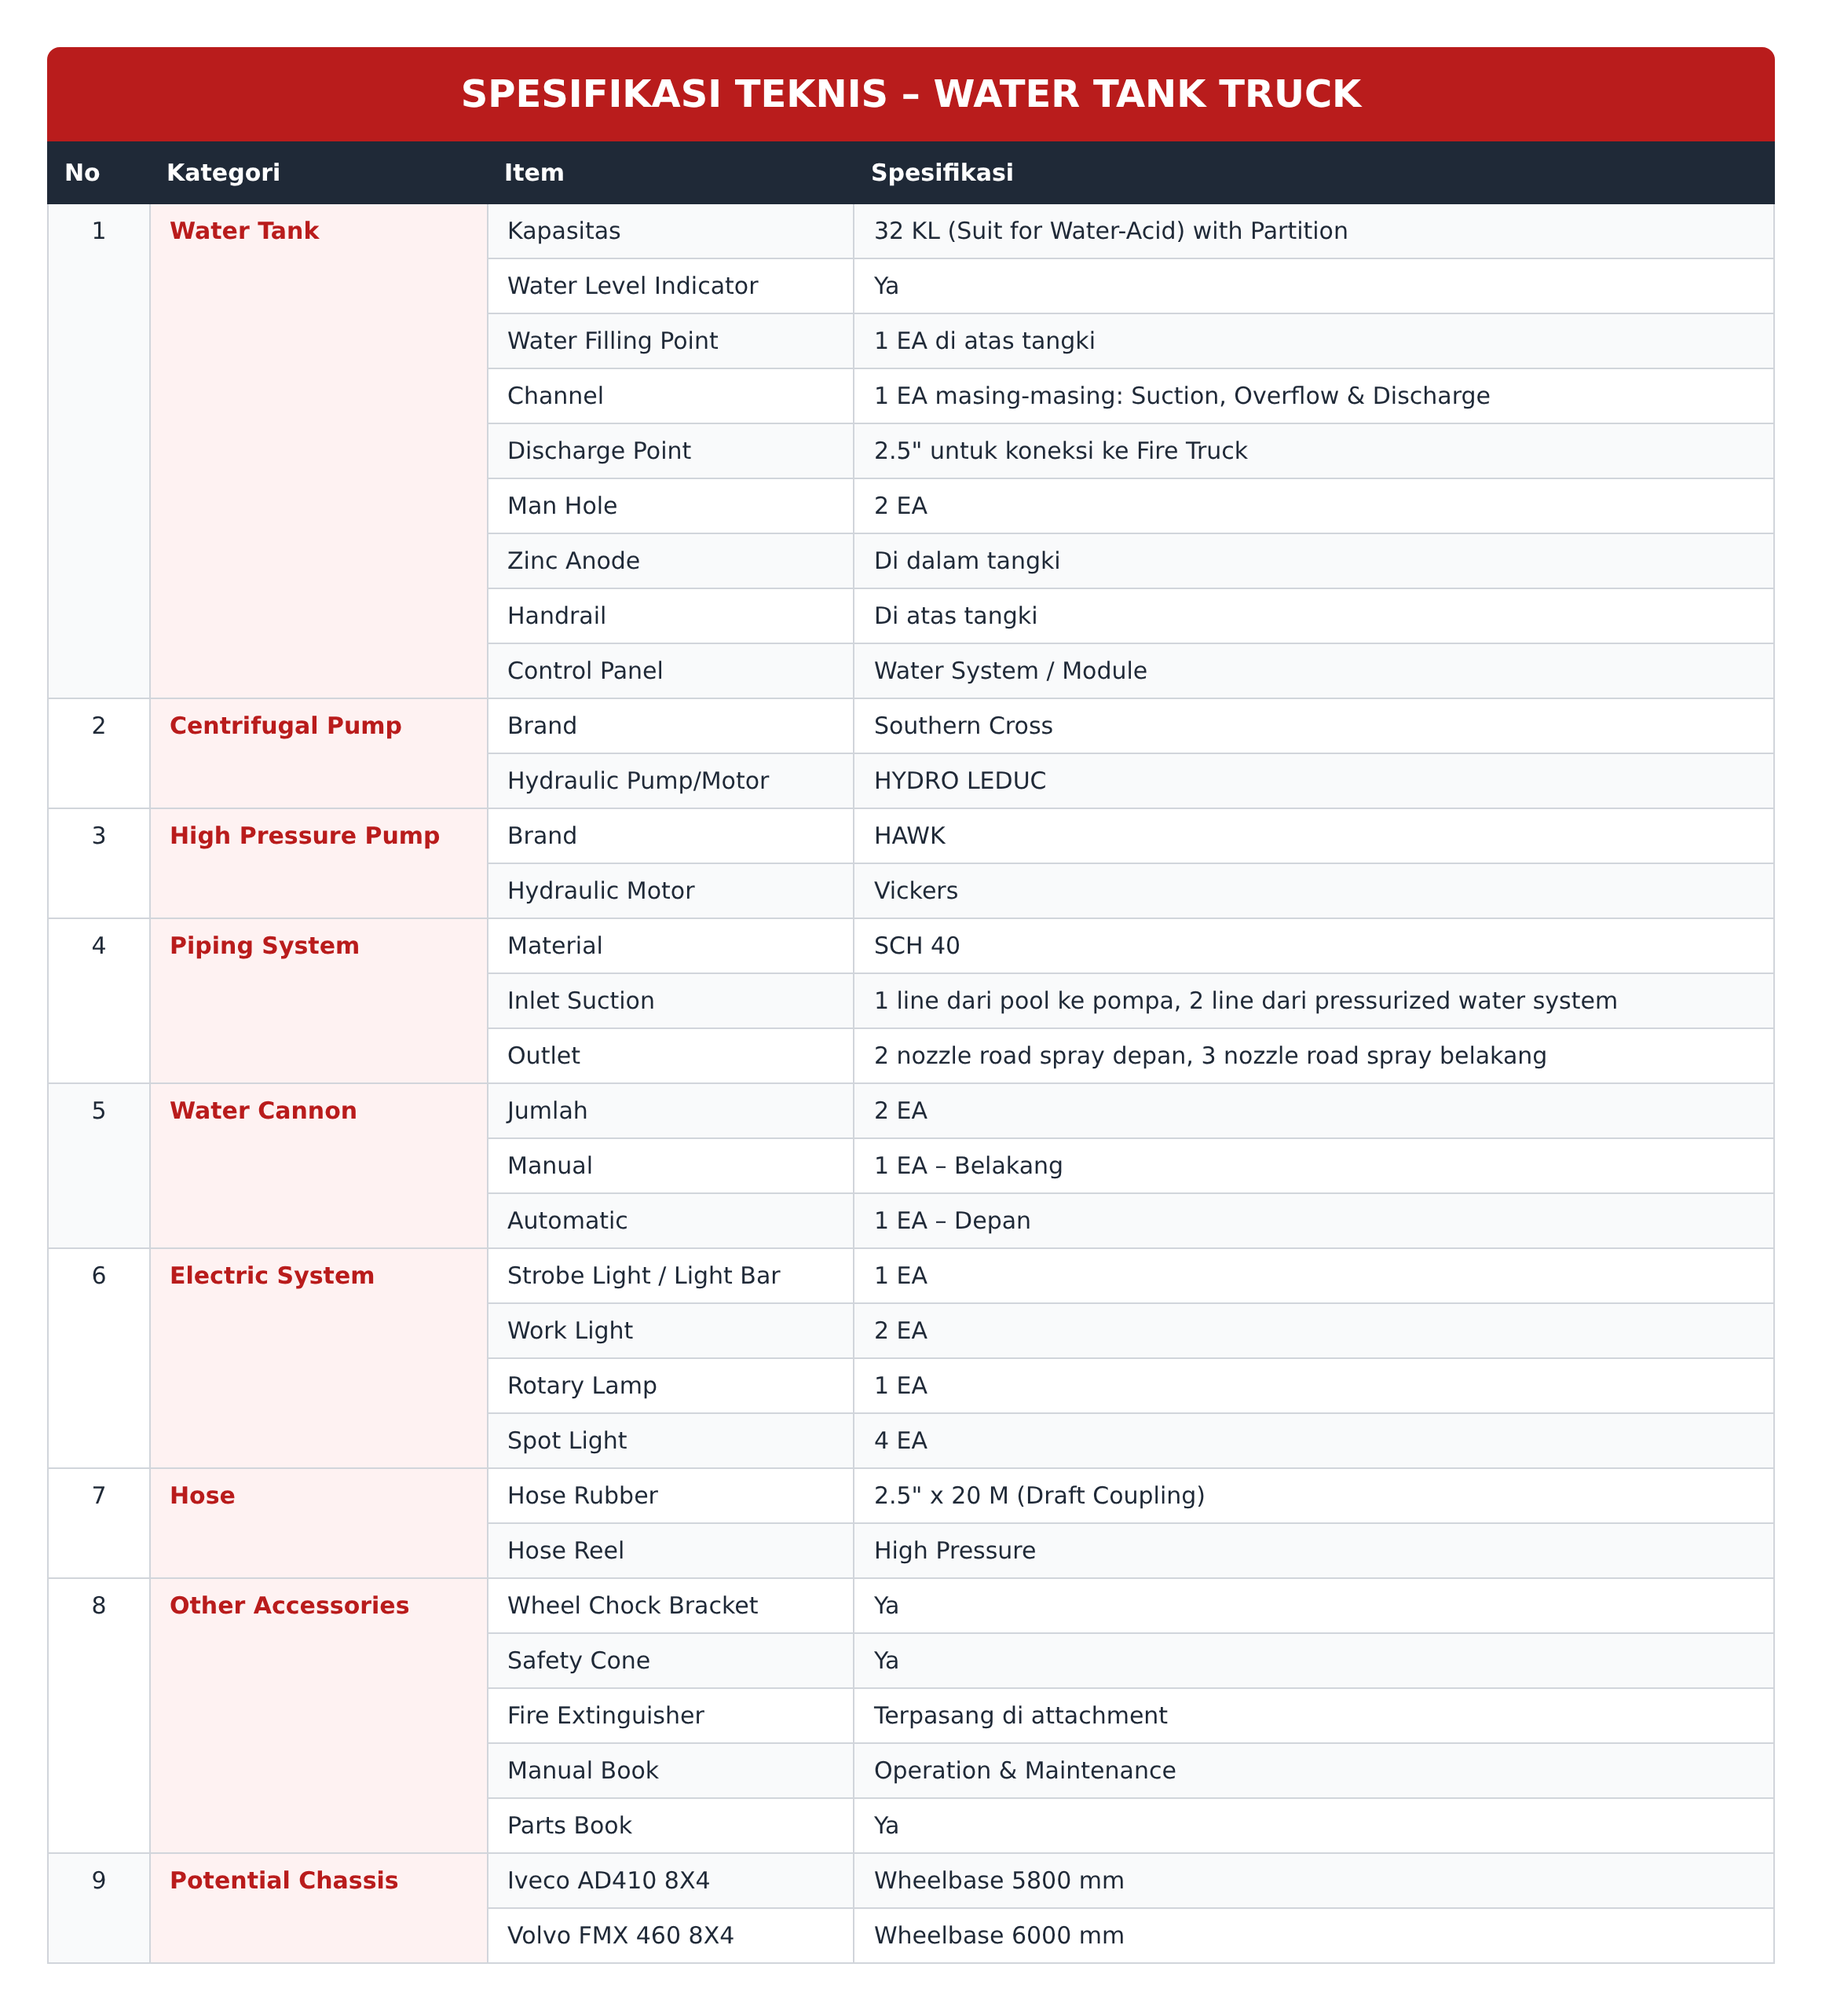
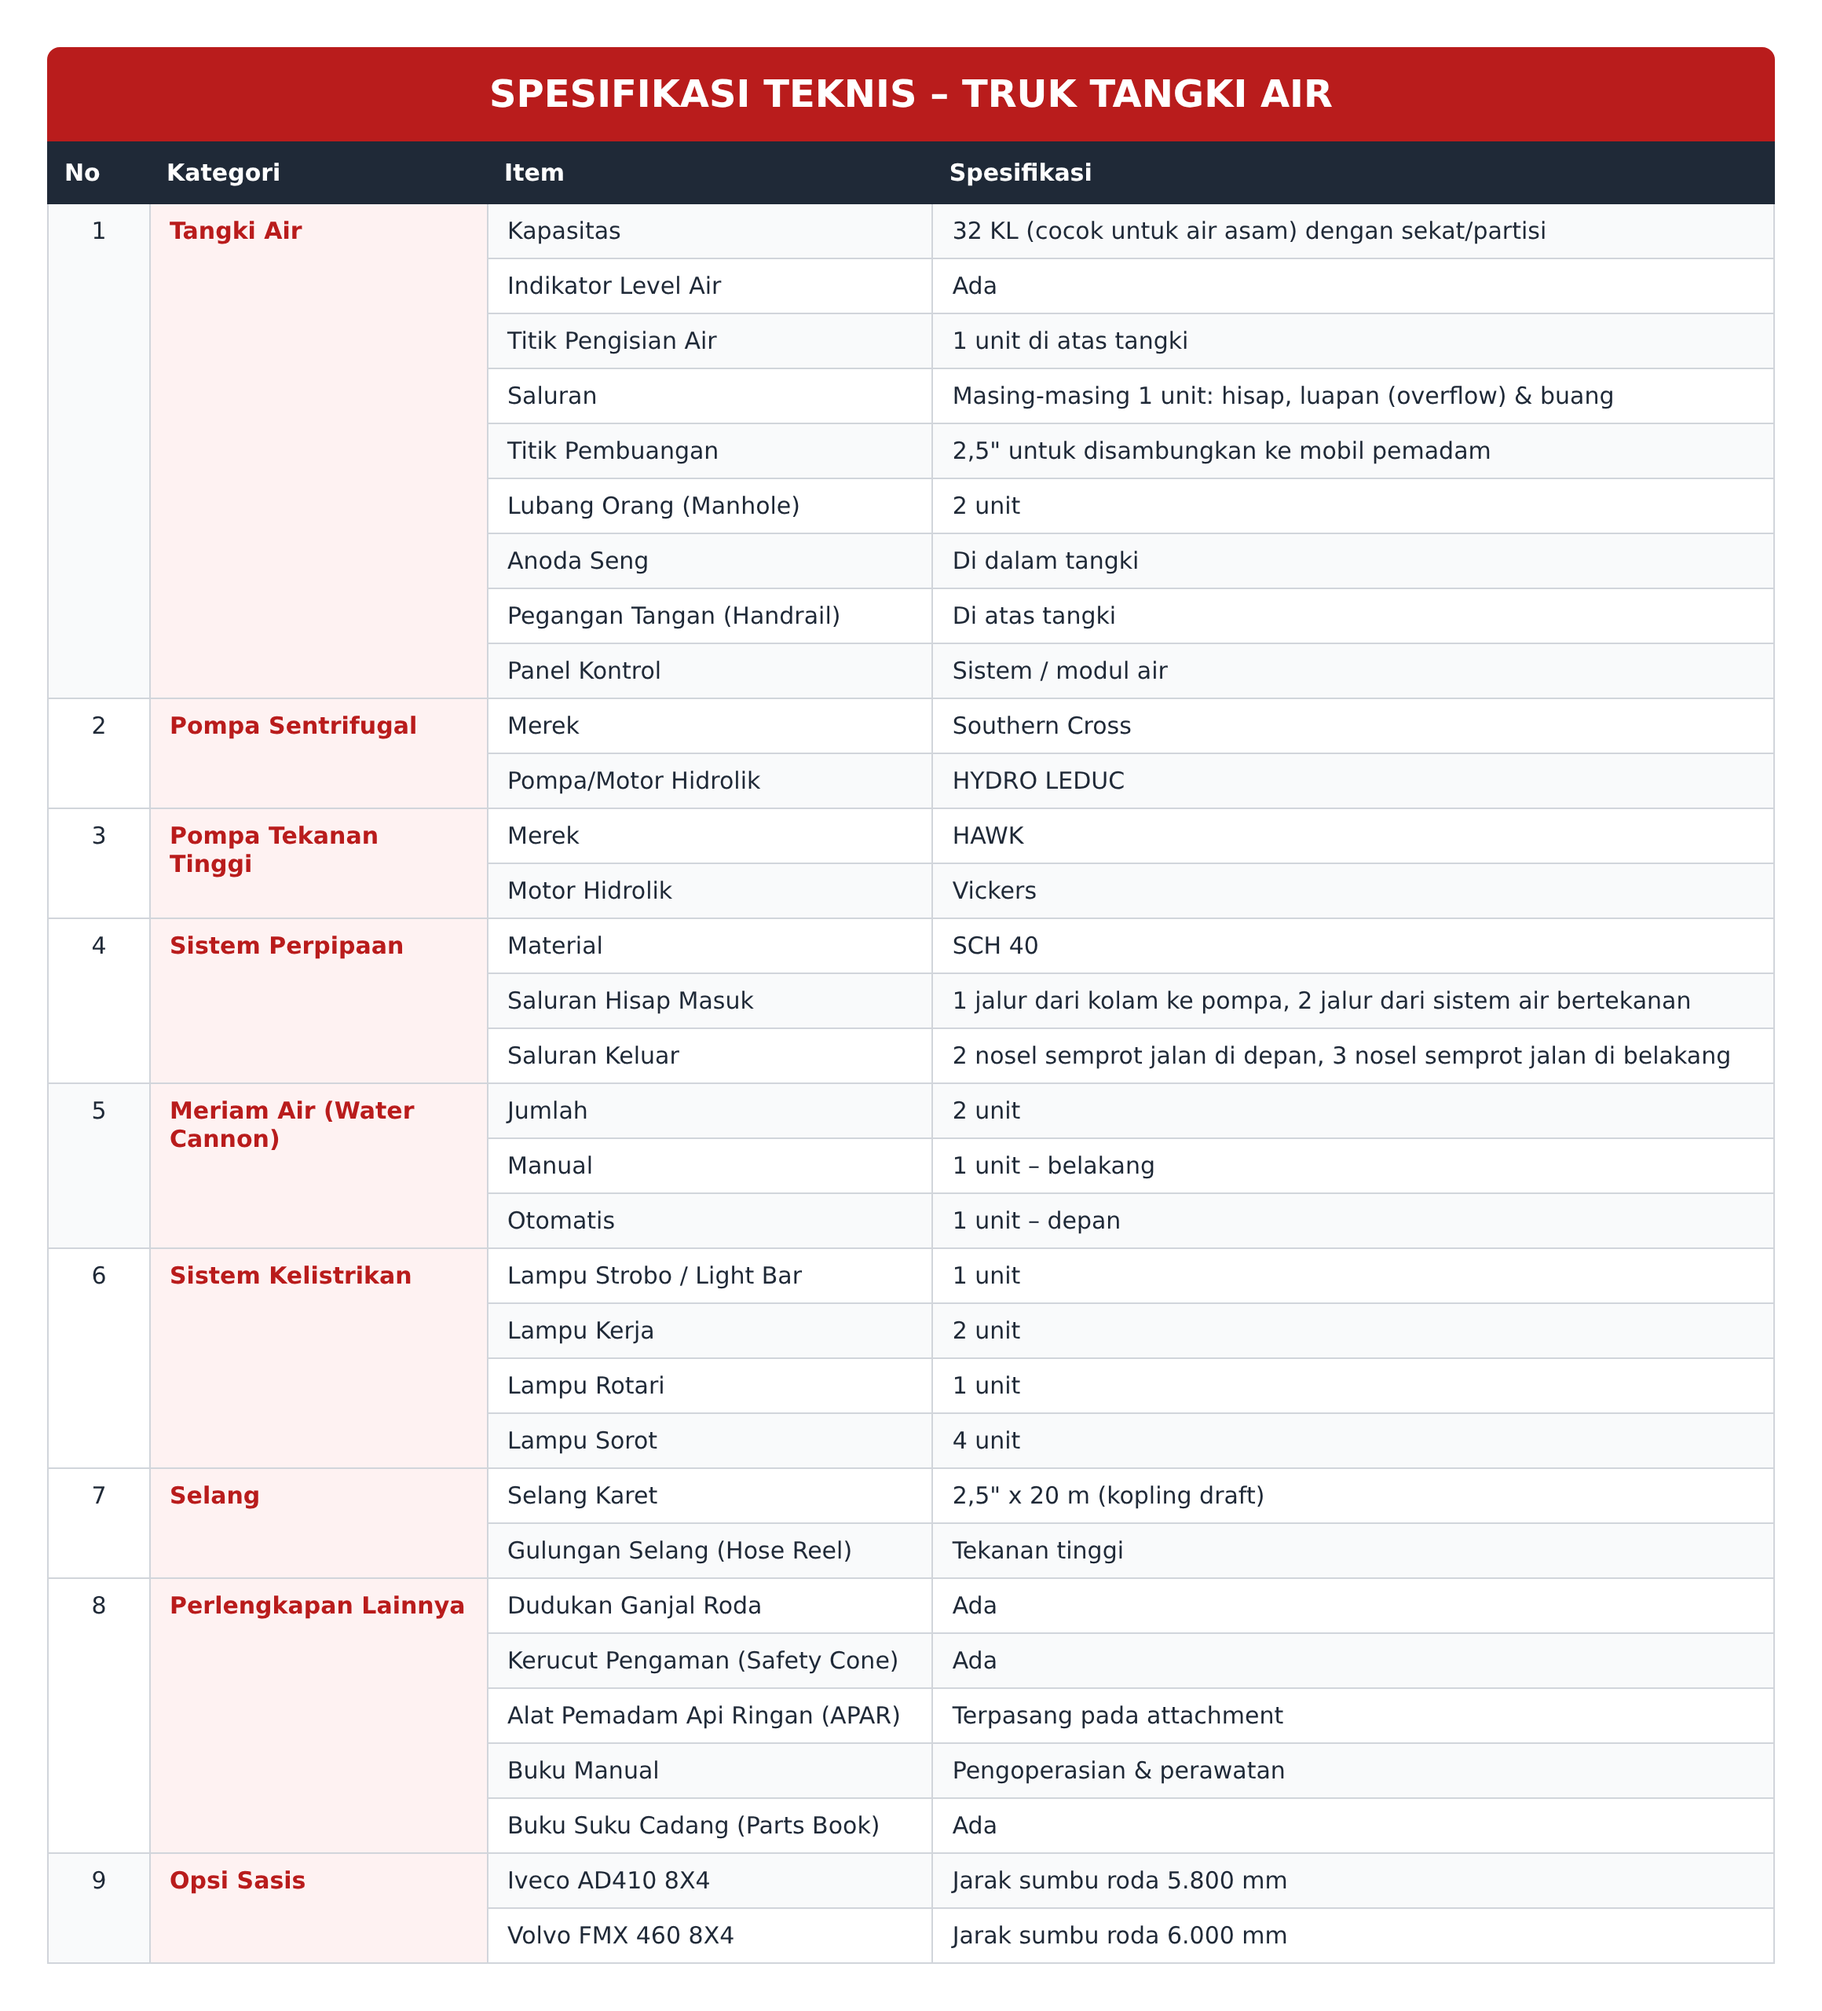
Translate specification table to Indonesian
Claude-Session: https://claude.ai/code/session_01WVXA4RPNs2JwgP1czcHMWC

diff --git a/spesifikasi/table.html b/spesifikasi/table.html
@@ -7,38 +7,38 @@ td{border:1px solid #d1d5db;padding:8px 12px;vertical-align:top}
 td.cat{background:#fef2f2;font-weight:bold;color:#b91c1c;width:190px}
 td.no{text-align:center;width:40px}
 tr:nth-child(even) td:not(.cat){background:#f9fafb}
-</style></head><body><h1>SPESIFIKASI TEKNIS – WATER TANK TRUCK</h1>
+</style></head><body><h1>SPESIFIKASI TEKNIS – TRUK TANGKI AIR</h1>
 <table><tr><th>No</th><th>Kategori</th><th>Item</th><th>Spesifikasi</th></tr>
-<tr><td class="no" rowspan="9">1</td><td class="cat" rowspan="9">Water Tank</td><td>Kapasitas</td><td>32 KL (Suit for Water-Acid) with Partition</td></tr>
-<tr><td>Water Level Indicator</td><td>Ya</td></tr>
-<tr><td>Water Filling Point</td><td>1 EA di atas tangki</td></tr>
-<tr><td>Channel</td><td>1 EA masing-masing: Suction, Overflow &amp; Discharge</td></tr>
-<tr><td>Discharge Point</td><td>2.5" untuk koneksi ke Fire Truck</td></tr>
-<tr><td>Man Hole</td><td>2 EA</td></tr>
-<tr><td>Zinc Anode</td><td>Di dalam tangki</td></tr>
-<tr><td>Handrail</td><td>Di atas tangki</td></tr>
-<tr><td>Control Panel</td><td>Water System / Module</td></tr>
-<tr><td class="no" rowspan="2">2</td><td class="cat" rowspan="2">Centrifugal Pump</td><td>Brand</td><td>Southern Cross</td></tr>
-<tr><td>Hydraulic Pump/Motor</td><td>HYDRO LEDUC</td></tr>
-<tr><td class="no" rowspan="2">3</td><td class="cat" rowspan="2">High Pressure Pump</td><td>Brand</td><td>HAWK</td></tr>
-<tr><td>Hydraulic Motor</td><td>Vickers</td></tr>
-<tr><td class="no" rowspan="3">4</td><td class="cat" rowspan="3">Piping System</td><td>Material</td><td>SCH 40</td></tr>
-<tr><td>Inlet Suction</td><td>1 line dari pool ke pompa, 2 line dari pressurized water system</td></tr>
-<tr><td>Outlet</td><td>2 nozzle road spray depan, 3 nozzle road spray belakang</td></tr>
-<tr><td class="no" rowspan="3">5</td><td class="cat" rowspan="3">Water Cannon</td><td>Jumlah</td><td>2 EA</td></tr>
-<tr><td>Manual</td><td>1 EA – Belakang</td></tr>
-<tr><td>Automatic</td><td>1 EA – Depan</td></tr>
-<tr><td class="no" rowspan="4">6</td><td class="cat" rowspan="4">Electric System</td><td>Strobe Light / Light Bar</td><td>1 EA</td></tr>
-<tr><td>Work Light</td><td>2 EA</td></tr>
-<tr><td>Rotary Lamp</td><td>1 EA</td></tr>
-<tr><td>Spot Light</td><td>4 EA</td></tr>
-<tr><td class="no" rowspan="2">7</td><td class="cat" rowspan="2">Hose</td><td>Hose Rubber</td><td>2.5" x 20 M (Draft Coupling)</td></tr>
-<tr><td>Hose Reel</td><td>High Pressure</td></tr>
-<tr><td class="no" rowspan="5">8</td><td class="cat" rowspan="5">Other Accessories</td><td>Wheel Chock Bracket</td><td>Ya</td></tr>
-<tr><td>Safety Cone</td><td>Ya</td></tr>
-<tr><td>Fire Extinguisher</td><td>Terpasang di attachment</td></tr>
-<tr><td>Manual Book</td><td>Operation &amp; Maintenance</td></tr>
-<tr><td>Parts Book</td><td>Ya</td></tr>
-<tr><td class="no" rowspan="2">9</td><td class="cat" rowspan="2">Potential Chassis</td><td>Iveco AD410 8X4</td><td>Wheelbase 5800 mm</td></tr>
-<tr><td>Volvo FMX 460 8X4</td><td>Wheelbase 6000 mm</td></tr>
+<tr><td class="no" rowspan="9">1</td><td class="cat" rowspan="9">Tangki Air</td><td>Kapasitas</td><td>32 KL (cocok untuk air asam) dengan sekat/partisi</td></tr>
+<tr><td>Indikator Level Air</td><td>Ada</td></tr>
+<tr><td>Titik Pengisian Air</td><td>1 unit di atas tangki</td></tr>
+<tr><td>Saluran</td><td>Masing-masing 1 unit: hisap, luapan (overflow) &amp; buang</td></tr>
+<tr><td>Titik Pembuangan</td><td>2,5" untuk disambungkan ke mobil pemadam</td></tr>
+<tr><td>Lubang Orang (Manhole)</td><td>2 unit</td></tr>
+<tr><td>Anoda Seng</td><td>Di dalam tangki</td></tr>
+<tr><td>Pegangan Tangan (Handrail)</td><td>Di atas tangki</td></tr>
+<tr><td>Panel Kontrol</td><td>Sistem / modul air</td></tr>
+<tr><td class="no" rowspan="2">2</td><td class="cat" rowspan="2">Pompa Sentrifugal</td><td>Merek</td><td>Southern Cross</td></tr>
+<tr><td>Pompa/Motor Hidrolik</td><td>HYDRO LEDUC</td></tr>
+<tr><td class="no" rowspan="2">3</td><td class="cat" rowspan="2">Pompa Tekanan Tinggi</td><td>Merek</td><td>HAWK</td></tr>
+<tr><td>Motor Hidrolik</td><td>Vickers</td></tr>
+<tr><td class="no" rowspan="3">4</td><td class="cat" rowspan="3">Sistem Perpipaan</td><td>Material</td><td>SCH 40</td></tr>
+<tr><td>Saluran Hisap Masuk</td><td>1 jalur dari kolam ke pompa, 2 jalur dari sistem air bertekanan</td></tr>
+<tr><td>Saluran Keluar</td><td>2 nosel semprot jalan di depan, 3 nosel semprot jalan di belakang</td></tr>
+<tr><td class="no" rowspan="3">5</td><td class="cat" rowspan="3">Meriam Air (Water Cannon)</td><td>Jumlah</td><td>2 unit</td></tr>
+<tr><td>Manual</td><td>1 unit – belakang</td></tr>
+<tr><td>Otomatis</td><td>1 unit – depan</td></tr>
+<tr><td class="no" rowspan="4">6</td><td class="cat" rowspan="4">Sistem Kelistrikan</td><td>Lampu Strobo / Light Bar</td><td>1 unit</td></tr>
+<tr><td>Lampu Kerja</td><td>2 unit</td></tr>
+<tr><td>Lampu Rotari</td><td>1 unit</td></tr>
+<tr><td>Lampu Sorot</td><td>4 unit</td></tr>
+<tr><td class="no" rowspan="2">7</td><td class="cat" rowspan="2">Selang</td><td>Selang Karet</td><td>2,5" x 20 m (kopling draft)</td></tr>
+<tr><td>Gulungan Selang (Hose Reel)</td><td>Tekanan tinggi</td></tr>
+<tr><td class="no" rowspan="5">8</td><td class="cat" rowspan="5">Perlengkapan Lainnya</td><td>Dudukan Ganjal Roda</td><td>Ada</td></tr>
+<tr><td>Kerucut Pengaman (Safety Cone)</td><td>Ada</td></tr>
+<tr><td>Alat Pemadam Api Ringan (APAR)</td><td>Terpasang pada attachment</td></tr>
+<tr><td>Buku Manual</td><td>Pengoperasian &amp; perawatan</td></tr>
+<tr><td>Buku Suku Cadang (Parts Book)</td><td>Ada</td></tr>
+<tr><td class="no" rowspan="2">9</td><td class="cat" rowspan="2">Opsi Sasis</td><td>Iveco AD410 8X4</td><td>Jarak sumbu roda 5.800 mm</td></tr>
+<tr><td>Volvo FMX 460 8X4</td><td>Jarak sumbu roda 6.000 mm</td></tr>
 </table></body></html>
